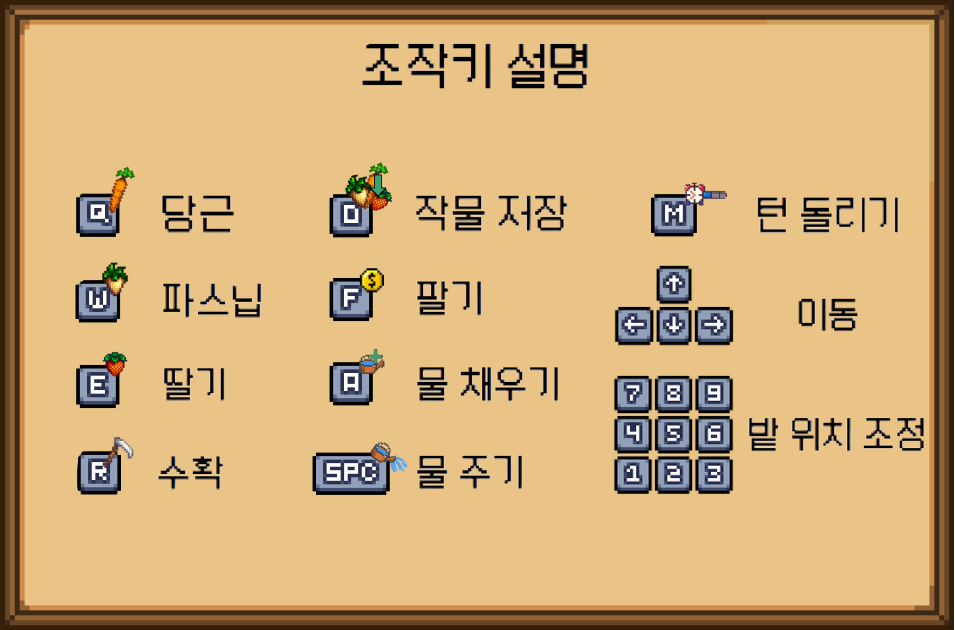
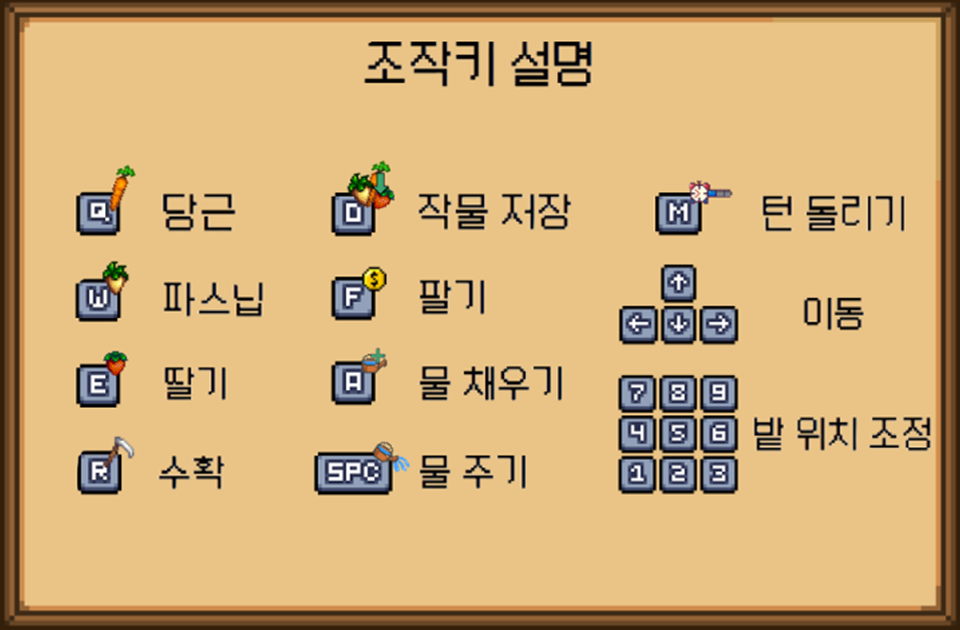
인트로 수정중

diff --git a/src/stardewValley/A_OHJ/IntroGuide.java b/src/stardewValley/A_OHJ/IntroGuide.java
@@ -1,29 +1,29 @@
 package stardewValley.A_OHJ;
 
+import java.awt.event.KeyEvent;
+import java.awt.event.KeyListener;
 import java.awt.event.MouseEvent;
 import java.awt.event.MouseListener;
 
 import javax.swing.Icon;
 import javax.swing.ImageIcon;
+import javax.swing.JButton;
 import javax.swing.JFrame;
 import javax.swing.JLabel;
 import javax.swing.JPanel;
 import javax.swing.JTextField;
 
-public class IntroName extends JFrame {
+public class IntroGuide extends JFrame implements IImagePack {
 
 	private JLabel bg;
-
-	// 추가2 - 아래 3줄
-	private JLabel guidebook1;
-	private JLabel guidebook2;
-	private JLabel guidebook3;
-
+	private JLabel guide1;
+	private JLabel guide2;
+	private JLabel guide3;
 	private JPanel nameField;
 	private JTextField text;
 	private StardewValleyFrame game;
 
-	public IntroName() {
+	public IntroGuide() {
 		initData();
 		setInitLayout();
 		addEventListener();
@@ -34,26 +34,25 @@ public class IntroName extends JFrame {
 		setSize(1930, 980);
 		setDefaultCloseOperation(JFrame.EXIT_ON_CLOSE);
 
-		Icon icon = new ImageIcon("img/intro/name.png");
-		bg = new JLabel(icon);
+		Icon icon1 = new ImageIcon(introGuideBg);
+		bg = new JLabel(icon1);
 		bg.setSize(1930, 980);
 		bg.setLocation(0, 0);
 
-		// 추가2-아래 3줄
-		Icon icon2 = new ImageIcon("img/intro/temptitle.png");
-		guidebook1 = new JLabel(icon2);
-		guidebook1.setSize(955, 630);
-		guidebook1.setLocation(500, 180);
+		Icon icon2 = new ImageIcon(WelcomeGuide);
+		guide1 = new JLabel(icon2);
+		guide1.setSize(960, 630);
+		guide1.setLocation(485, 175);
 
-		Icon icon3 = new ImageIcon("img/intro/KeyCommand.png");
-		guidebook2 = new JLabel(icon3);
-		guidebook2.setSize(955, 630);
-		guidebook2.setLocation(500, 180);
+		Icon icon3 = new ImageIcon(KeyGuide);
+		guide2 = new JLabel(icon3);
+		guide2.setSize(960, 630);
+		guide2.setLocation(485, 175);
 
-		Icon icon4 = new ImageIcon("img/intro/helpInfo.png.png");
-		guidebook3 = new JLabel(icon4);
-		guidebook3.setSize(955, 630);
-		guidebook3.setLocation(500, 180);
+		Icon icon4 = new ImageIcon(HelpGuide);
+		guide3 = new JLabel(icon4);
+		guide3.setSize(960, 630);
+		guide3.setLocation(485, 175);
 
 		nameField = new JPanel();
 		nameField.setSize(175, 25);
@@ -63,24 +62,57 @@ public class IntroName extends JFrame {
 	}
 
 	public void setInitLayout() {
+		bg.add(guide1);
+		bg.add(guide2);
+		bg.add(guide3);
 		bg.add(nameField);
 
-		bg.add(guidebook1); // 추가2
-
 		nameField.add(text);
+
 		add(bg);
 
 		setLayout(null);
 		setVisible(true);
 		setLocationRelativeTo(null);
 
-		nameField.setVisible(false); // 추가2
-		guidebook1.setVisible(false); // 추가2
-		guidebook2.setVisible(false); // 추가2
-		guidebook3.setVisible(false); // 추가2
+		guide1.setVisible(true);
+		guide2.setVisible(false);
+		guide3.setVisible(false);
+		nameField.setVisible(false);
 	}
 
 	private void addEventListener() {
+		addKeyListener(new KeyListener() {
+
+			@Override
+			public void keyTyped(KeyEvent e) {
+
+			}
+
+			@Override
+			public void keyReleased(KeyEvent e) {
+
+			}
+
+			@Override
+			public void keyPressed(KeyEvent e) {
+				if (e.getKeyCode() == KeyEvent.VK_A) {
+					guide1.setVisible(false);
+					guide2.setVisible(true);
+					guide3.setVisible(false);
+					nameField.setVisible(false);
+				} else if (e.getKeyCode() == KeyEvent.VK_S) {
+					guide1.setVisible(false);
+					guide2.setVisible(false);
+					guide3.setVisible(true);
+					nameField.setVisible(true);
+				} else if (e.getKeyCode() == KeyEvent.VK_D) {
+
+				} else if (e.getKeyCode() == KeyEvent.VK_DOWN) {
+				}
+			}
+		});
+
 		addMouseListener(new MouseListener() {
 
 			@Override
@@ -90,22 +122,9 @@ public class IntroName extends JFrame {
 
 			@Override
 			public void mousePressed(MouseEvent e) {
-				// TODO - 수정 필요
-				if (e.getClickCount() == 1) {
-					guidebook1.setVisible(true);
-				} else if (e.getClickCount() >= 2) {
-					guidebook1.setVisible(false);
-					guidebook2.setVisible(true);
-				} else if (e.getClickCount() == 3) {
-					guidebook1.setVisible(false);
-					guidebook2.setVisible(false);
-					guidebook3.setVisible(true);
-					nameField.setVisible(true); // 추가2
-				} else if (e.getClickCount() == 4) {
-					game = new StardewValleyFrame();
-					game.getStatus().getNameField().setText(text.getText());
-					setVisible(false);
-				}
+				game = new StardewValleyFrame();
+				game.getStatus().getNameField().setText(text.getText());
+				setVisible(false);
 			}
 
 			@Override
@@ -156,14 +175,5 @@ public class IntroName extends JFrame {
 	public void setGame(StardewValleyFrame game) {
 		this.game = game;
 	}
-
-	// 추가2
-//	public String getInputText() {
-//		return inputText;
-//	}
-//
-//	public void setInputText(String inputText) {
-//		this.inputText = inputText;
-//	}
 
 }

diff --git a/src/stardewValley/A_OHJ/Intro.java b/src/stardewValley/A_OHJ/Intro.java
@@ -21,7 +21,7 @@ class AudioPlay extends JPanel {
 	AudioPlay() {
 
 		try {
-			clip = AudioSystem.getClip(); // 사용 가능한 쓰레드 할당
+			clip = AudioSystem.getClip();
 			File file = new File("audio/Stardew-Valley-OST-Stardew-Valley-Overture.wav");
 
 			AudioInputStream audioInputStream = AudioSystem.getAudioInputStream(file);
@@ -38,12 +38,11 @@ class AudioPlay extends JPanel {
 	}
 }
 
-public class Intro extends JFrame {
+public class Intro extends JFrame implements IImagePack {
 
 	private JPanel jPanel;
 	private JLabel intro;
-	private StardewValleyFrame game;
-	private IntroName introName; // 추가
+	private IntroGuide introGuide;
 
 	public Intro() {
 		initData();
@@ -54,7 +53,7 @@ public class Intro extends JFrame {
 	private void initData() {
 		setTitle("Stardew Valley");
 		jPanel = new JPanel();
-		intro = new JLabel(new ImageIcon("img/intro/intro.png"));
+		intro = new JLabel(new ImageIcon(introBg));
 	}
 
 	private void setInitLayout() {
@@ -67,7 +66,6 @@ public class Intro extends JFrame {
 		setLayout(null);
 		setResizable(false);
 		setLocationRelativeTo(null);
-
 	}
 
 	private void addEventListener() {
@@ -80,7 +78,7 @@ public class Intro extends JFrame {
 
 			@Override
 			public void mousePressed(MouseEvent e) {
-				introName = new IntroName();
+				introGuide = new IntroGuide();
 				setVisible(false);
 			}
 

diff --git a/src/stardewValley/A_CYJ/Intro.java b/src/stardewValley/A_CYJ/Intro.java
@@ -15,7 +15,7 @@ import javax.swing.JFrame;
 import javax.swing.JLabel;
 import javax.swing.JPanel;
 
-import stardewValley.A_OHJ.IntroName;
+import stardewValley.A_OHJ.IntroGuide;
 
 class AudioPlay extends JPanel {
 	Clip clip = null;
@@ -45,7 +45,7 @@ public class Intro extends JFrame {
 	private JPanel jPanel;
 	private JLabel intro;
 	private StardewValleyFrame game;
-	private IntroName introName;
+	private IntroGuide introName;
 
 	public Intro() {
 		initData();
@@ -81,7 +81,7 @@ public class Intro extends JFrame {
 
 			@Override
 			public void mousePressed(MouseEvent e) {
-				introName = new IntroName();
+				introName = new IntroGuide();
 				setVisible(false);
 			}
 

diff --git a/src/stardewValley/A_OHJ/IImagePack.java b/src/stardewValley/A_OHJ/IImagePack.java
@@ -1,0 +1,11 @@
+package stardewValley.A_OHJ;
+
+public interface IImagePack {
+
+	public String introBg = "img/intro/intro.png";
+	public String introGuideBg = "img/intro/introGuide.png";
+	public String WelcomeGuide = "img/intro/temptitle.png";
+	public String KeyGuide = "img/intro/KeyCommand.png";
+	public String HelpGuide = "img/intro/helpInfo.png";
+
+}
